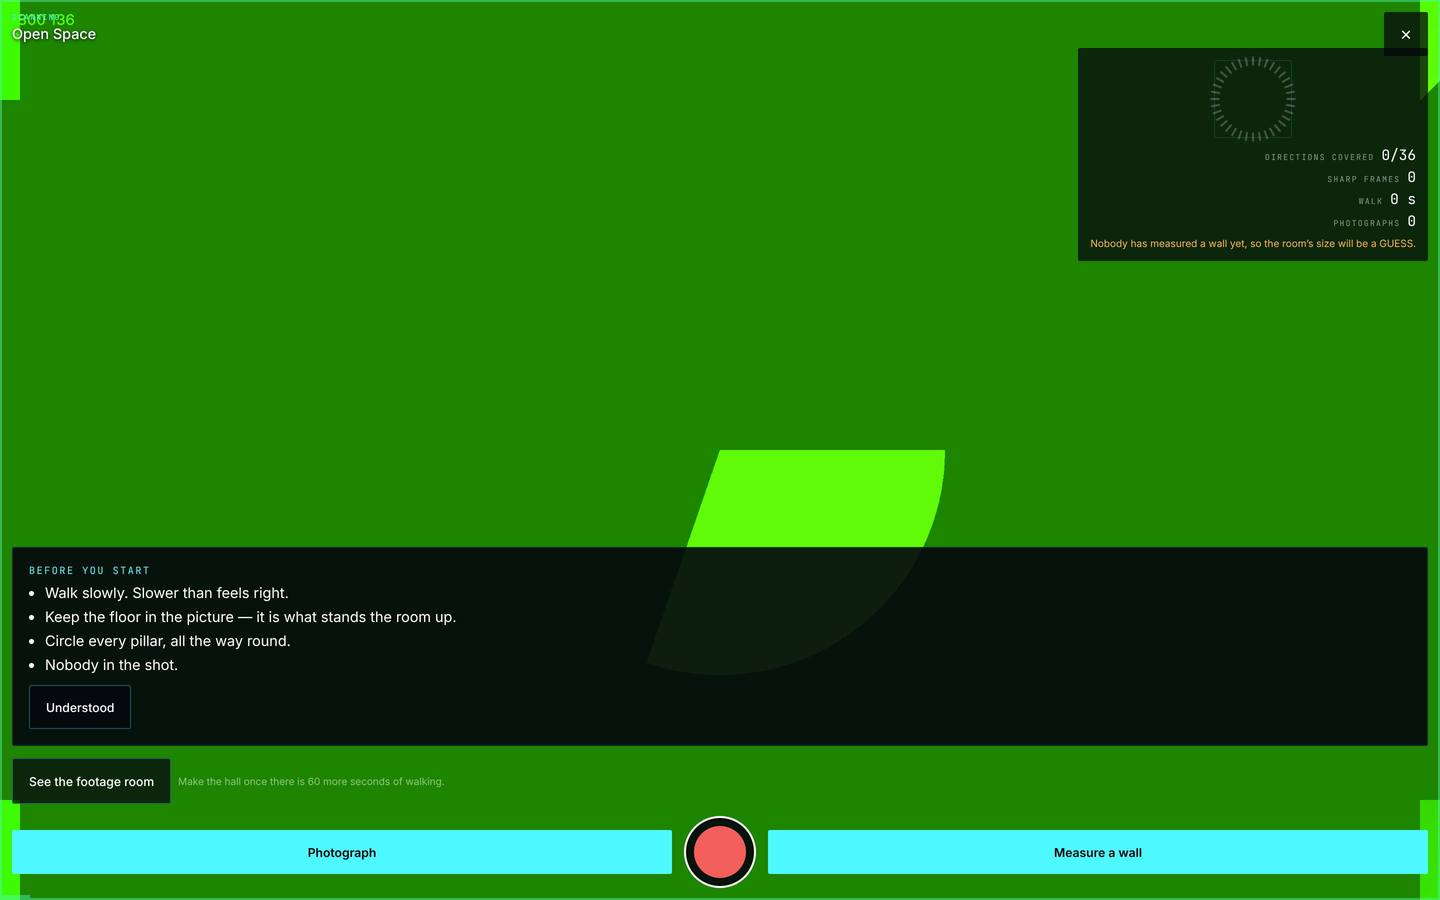
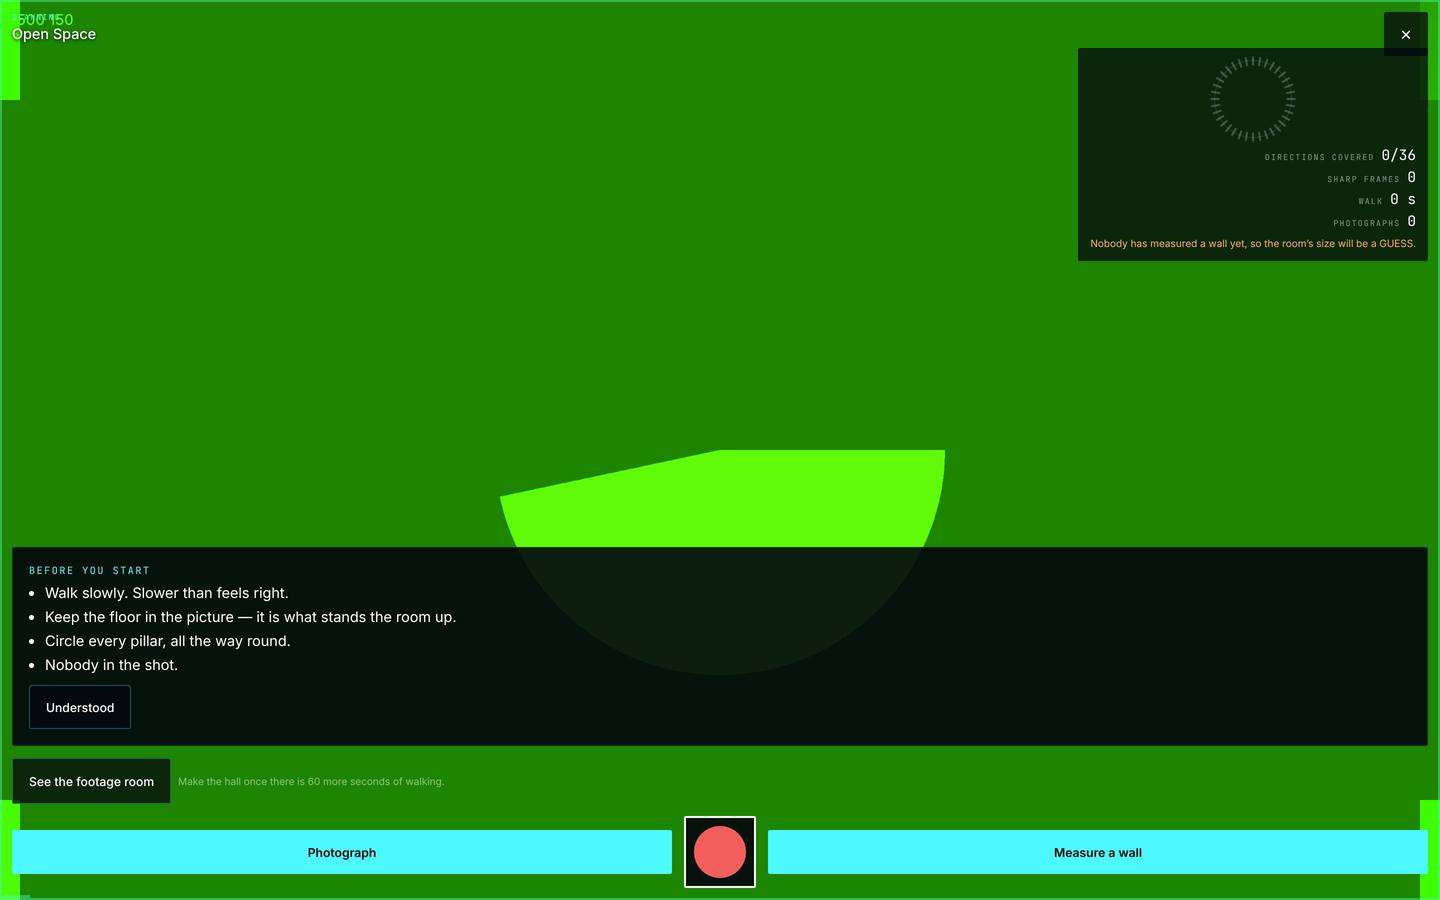
pictures: retake after the addendum; counts and measured differences
Claude-Session: https://claude.ai/code/session_013tP2Hcdxwe9gN3hrDyHzSJ

diff --git a/docs/ai/handover/brand-tool-surfaces/README.md b/docs/ai/handover/brand-tool-surfaces/README.md
@@ -1,38 +1,57 @@
 # brand-tool-surfaces — pictures, before and after (2026-10-21)
 
-Taken on a local stack (`npm run dev`, scratch data), signed in as a throwaway admin, with the
-`open` space's one project (`open-jam`) open. Laptop 1440×900 at DPR 2 and phone 390×844 at DPR 3,
-each with `prefers-color-scheme` light and dark. Stored at half size, JPEG q72.
-`before/` = dev's stylesheets; `after/` = this branch.
+These were taken on a local stack (`npm run dev`, scratch data), signed in as a throwaway admin, with the
+`open` space's one project (`open-jam`) open:
+- laptop 1440×900 at DPR 2, and phone 390×844 at DPR 3;
+- each with `prefers-color-scheme` light and dark;
+- stored at half size, JPEG q72.
+
+`before/` is dev's stylesheets; `after/` is this branch, including the addendum (the owner's rule:
+controls square, status dots and drawings round). The `after/` pictures of preferences, raw, jam, scan,
+perform, live-project and loading were retaken after the addendum. Workspace, make, space-contents and
+webgl-guard were taken before it; the addendum changes nothing those pictures show.
 
 ## Counts (from the stylesheets)
 
 | surface | round before → after | % square before → after | 800 weight | 1.5px | box-shadow |
 |---|---|---|---|---|---|
-| preferences | 1 → 0 | 97.0% → 100.0% (33/33) | 0 → 0 | 0 → 0 | 19 → 12 |
-| workspace + panels + inspector | 18 → 0 | 71.2% → 96.1% (74/77) | 0 → 0 | 0 → 0 | 36 → 32 |
-| controls + menu (+ base.css) | 2 → 0 | 66.7% → 100.0% (9/9) | 0 → 0 | 0 → 0 | 6 → 6 |
+| preferences | 1 → 1 | 97.0% → 97.0% (32/33) | 0 → 0 | 0 → 0 | 19 → 12 |
+| workspace + panels + inspector | 18 → 2 | 71.2% → 93.5% (72/77) | 0 → 0 | 0 → 0 | 36 → 32 |
+| controls + menu (+ base.css) | 2 → 1 | 66.7% → 88.9% (8/9) | 0 → 0 | 0 → 0 | 6 → 6 |
 | raw + mobile shell | 1 → 0 | 99.1% → 100.0% (109/109) | 2 → 0 | 1 → 0 | 12 → 12 |
-| jam | 2 → 0 | 80.0% → 93.3% (14/15) | 0 → 0 | 0 → 0 | 4 → 4 |
-| scan, make, perform + live-project chrome | 17 → 2 | 39.0% → 64.4% (38/59) | 0 → 0 | 5 → 0 | 14 → 14 |
-| loading screen + WebGL guard | 2 → 0 | 0.0% → 100.0% (2/2) | 0 → 0 | 0 → 0 | 0 → 0 |
+| jam | 2 → 1 | 80.0% → 86.7% (13/15) | 0 → 0 | 0 → 0 | 4 → 4 |
+| scan, make, perform + live-project chrome | 17 → 4 | 39.0% → 61.0% (36/59) | 0 → 0 | 5 → 0 | 14 → 14 |
+| loading screen + WebGL guard | 2 → 1 | 0.0% → 50.0% (1/2) | 0 → 0 | 0 → 0 | 0 → 0 |
 
-"% square" = border-radius declarations that are 0 or `var(--di-radius)`, out of all of them in those files.
-The 2 round sites left are the recording light (Q4). The rest that is not square is makeSurface.css's
-19 hand-set radii (2–26px), outside this brief's rows.
+The 10 round sites left are exactly the allowlist in `src/styles/squareCorners.test.js`: seven status dots
+and three drawings, each marked "not a control" in its stylesheet. No control is round.
+
+"% square" counts only single values of `0` or `var(--di-radius)`. Per-corner forms such as
+`0 var(--di-radius) 0 0` are square too but are not counted. The scan/make/perform remainder is mostly
+makeSurface.css's 19 hand-set radii (2–26px), outside this brief's rows.
 
 ## What the pictures show, measured
 
-Mean absolute pixel difference, before vs after, dark scheme, 0–255 scale:
-scan 2.22 (laptop) / 3.85 (phone); preferences 0.48 / 0.00; perform 0.03 / 0.39; loading 0.02 / 0.08;
-every other surface 0.00–0.01. So in the state these pages open in, most of what changed is **not on
-screen**: the jam presence dot, the badges, the status chips, the sliders and the collaboration cursor
-appear only with a second person, a selection or an open panel, and none of those states was driven here.
+Mean absolute pixel difference, dev vs this branch, dark scheme, on a 0–255 scale:
 
-- Light vs dark: the largest mean difference between the two schemes is 3.3/255 (animation and 3D frame
-  timing). These surfaces declare one colour scheme, so the two sets are the same page.
-- workspace: the legacy editor at `/main` opened with no panels, in navigate and in edit mode; its panels
-  and inspector are not in the pictures.
-- webgl-guard: forcing a context loss from the page did not bring the guard up; its picture is the
-  live-project page, not the guard.
-- scan: the recording light (Q4) is round in both sets, as asked.
+| page | laptop | phone |
+|---|---|---|
+| scan | 1.56 | 4.66 |
+| preferences | 0.62 | 0.01 |
+| perform | 0.07 | 0.46 |
+| raw | 0.00 | 0.09 |
+| loading | 0.01 | 0.01 |
+| every other page | 0.00 | 0.00 |
+
+Most of what changed is **not on screen** in the state these pages open in. These appear only with a second
+person, a selection, an open panel or a touch, and none of those states was driven here:
+- the joystick, the Fly and altitude buttons, the exit hover;
+- the presence dot, the badges, the sliders, the cursor;
+- raw's focus outline.
+
+Other notes:
+- **Light vs dark:** the largest mean difference between the two schemes is 3.3/255, which is animation and
+  3D frame timing. These surfaces have one colour scheme.
+- **Workspace:** the legacy editor at `/main` opened with no panels, so its panels and inspector are not pictured.
+- **WebGL guard:** forcing a context loss did not bring up the guard, so that picture is not of the guard.
+- **Scan:** the shutter is square and its red mark is round (a status dot).
